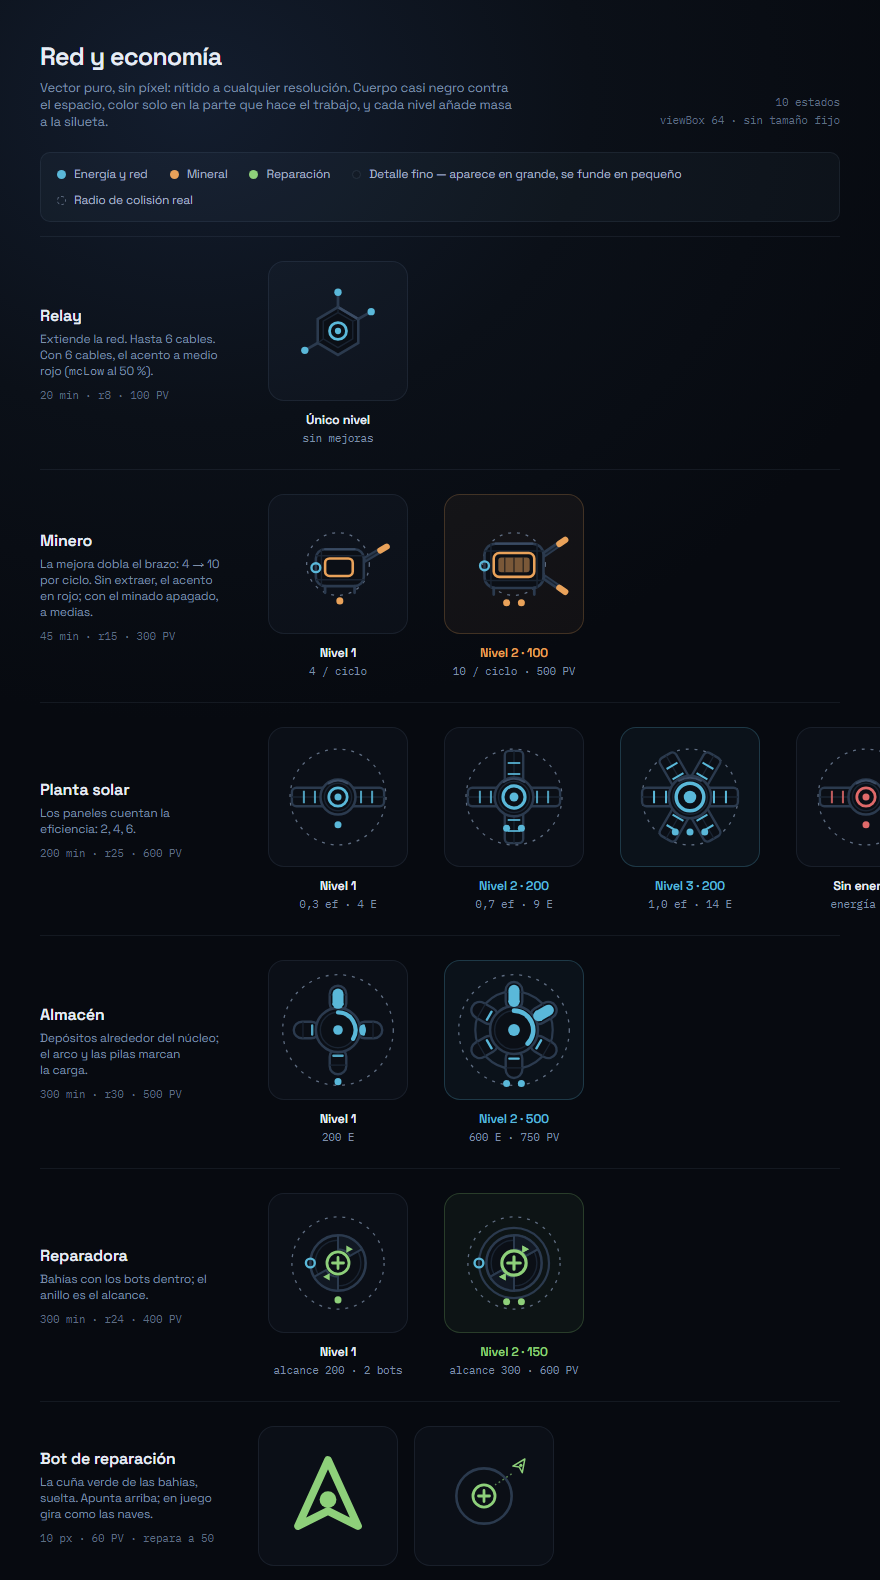
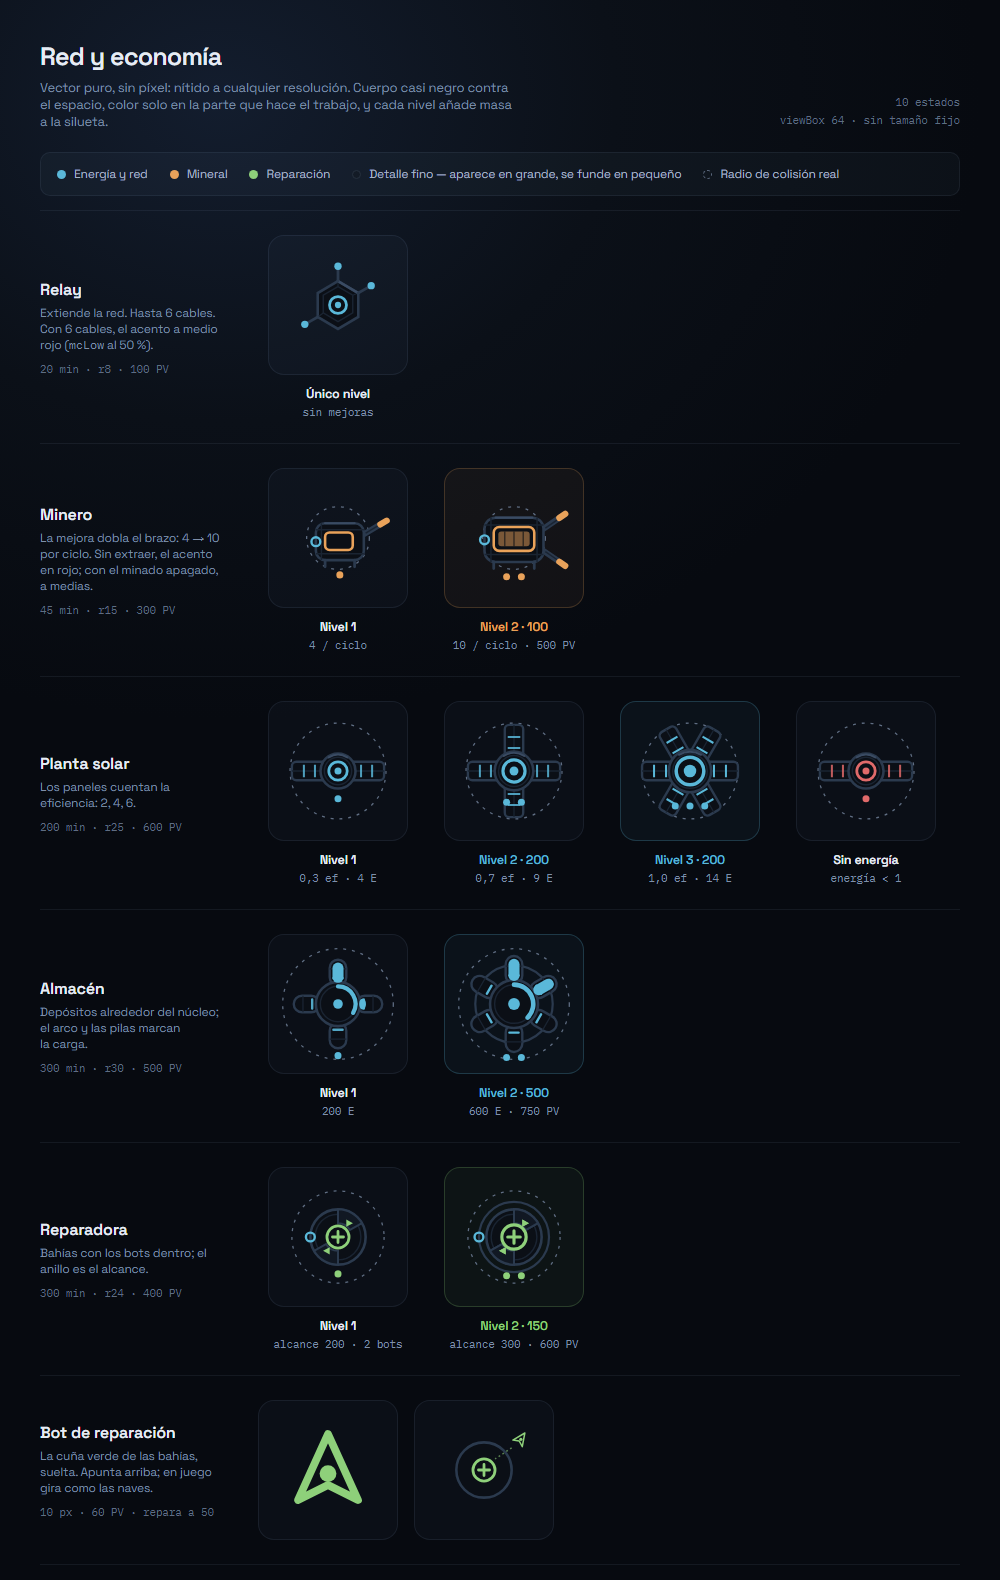
Edificios: artboard a 1000 px para que quepa la fila de la planta

diff --git a/design/Edificios.dc.html b/design/Edificios.dc.html
@@ -18,7 +18,7 @@
   </style>
 </helmet>
 
-<div style="width: 880px; min-height: 1580px; padding: 40px; display: flex; flex-direction: column;
+<div style="width: 1000px; min-height: 1580px; padding: 40px; display: flex; flex-direction: column;
             background: radial-gradient(760px 620px at 22% 6%, #131d2e 0%, #0b1018 52%, #070a10 100%);
             font-family: 'Space Grotesk', 'Helvetica Neue', Arial, sans-serif;
             color: #e6ecf5; letter-spacing: -0.01em;">
